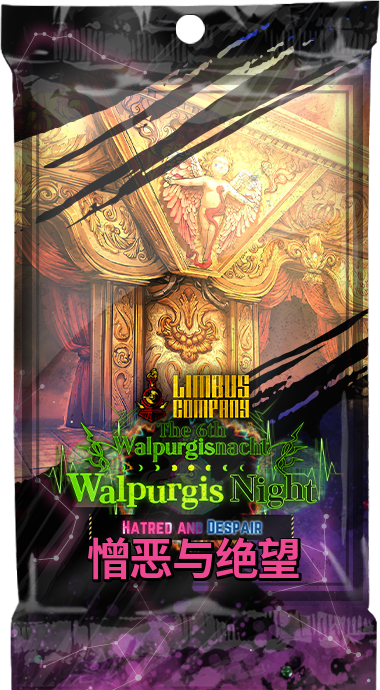
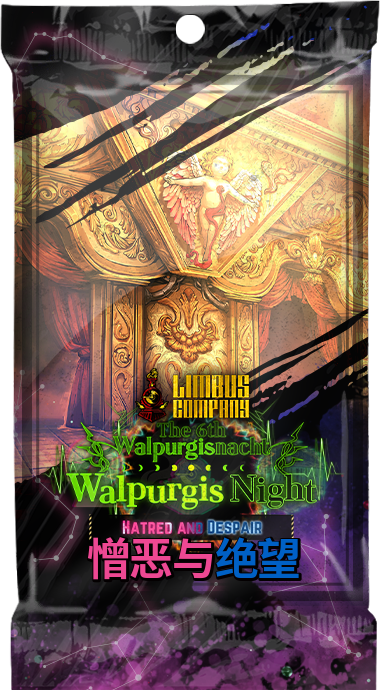
主题包: 按游戏官方卡包名校正 OCR 关键词
以游戏 EN_MirrorDungeonTheme-1.json 的 117 条官方卡包名逐项核验，修正
英文关键词的错抢与失配：

- und -> nagel：Nagel and Hammer 里的 and 是 a-n-d，不含 und，钉与锤
  从未命中过自己，而 Thunder / Unbound 反被抢走
- curshed -> crushed、extrenal -> external：字母顺序写反，当碎之物与
  破坏性外力在英文界面识别不到
- memory -> mnestic：官方名是 Mnestic Experience，封面文件名不可信
- wrath -> repressed：修好 und 后 Unbound Wrath 会转由 wrath 抢先
- glutton -> devoured、gloom -> degraded、sloth -> treadwheel：基础名单
  先于困难名单合并，短片段会抢走困难侧的同名系列卡包

同时统一 penetra 与穿刺者的默认权重为 0，修正 Hatred and Despair 封面
标题的双色渲染。

Claude-Session: https://claude.ai/code/session_01NyeZWuDQnrYkFRXJkAY4ns

Changed region(s): [[0.55, 0.7609, 0.7816, 0.8522]]

diff --git a/app/theme_pack_setting_interface.py b/app/theme_pack_setting_interface.py
@@ -47,7 +47,7 @@ from utils.image_utils import ImageUtils
 THEME_PACK_NAME_MAP = {
     "forgot": "遗忘",
     "gambl": "赌徒",
-    "und": "钉与锤",
+    "nagel": "钉与锤",
     "faith": "信仰",
     "unconf": "无作为",
     "workshop": "工坊",
@@ -67,14 +67,14 @@ THEME_PACK_NAME_MAP = {
     "addict": "沉迷的",
     "seduct": "情感困惑",
     "dolen": "情感懒",
-    "glutton": "吞噬的",
+    "devoured": "吞噬的",
     "cravi": "情感饥渴",
-    "gloom": "落的忧",
+    "degraded": "落的忧",
     "subserv": "情感屈从",
     "nsignif": "寒微",
     "judgment": "情感评判",
     "outcast": "无归属",
-    "curshed": "当碎",
+    "crushed": "当碎",
     "automated": "自动",
     "spring": "琢春",
     "unloving": "无慈悲",
@@ -85,8 +85,8 @@ THEME_PACK_NAME_MAP = {
     "warp": "谋杀",
     "violet": "紫罗兰",
     "dicers": "斩切",
-    "wrath": "压抑的",
-    "sloth": "空转",
+    "repressed": "压抑的",
+    "treadwheel": "空转",
     "flood": "沉溺者",
     "vain": "虚张声势",
     "check": "体检",
@@ -96,14 +96,14 @@ THEME_PACK_NAME_MAP = {
     "dusk": "黄昏",
     "thread": "绞丝",
     "compassion": "巡礼",
-    "memory": "经验",
+    "mnestic": "经验",
     "unknown": "未知",
 }
 
 # 英文key到中文名称的映射表（困难模式）
 THEME_PACK_HARD_NAME_MAP = {
     "seismic": "地震",
-    "extrenal": "破坏性",
+    "external": "破坏性",
     "thunder": "电闪雷鸣",
     "sanguine": "渗出的",
     "dizzying": "缭乱的",
@@ -162,7 +162,7 @@ THEME_PACK_IMAGE_MAP = {
     # 普通模式主题包
     "forgot": "The Forgotten.png",
     "gambl": "Flat-broke Gamblers.png",
-    "und": "Nagel and Hammer.png",
+    "nagel": "Nagel and Hammer.png",
     "faith": "Faith & Erosion.png",
     "unconf": "The Unconfronting.png",
     "workshop": "Nest, Workshop, and Technology.png",
@@ -182,14 +182,14 @@ THEME_PACK_IMAGE_MAP = {
     "addict": "Addicting Lust.png",
     "seduct": "Emotional Seduction.png",
     "dolen": "Emotional Indolence.png",
-    "glutton": "Devoured Gluttony.png",
+    "devoured": "Devoured Gluttony.png",
     "cravi": "Emotional Craving.png",
-    "gloom": "Degraded Gloom.png",
+    "degraded": "Degraded Gloom.png",
     "subserv": "Emotional Subservience.png",
     "nsignif": "Insignificant Envy.png",
     "judgment": "Emotional Judgment.png",
     "outcast": "The Outcast.png",
-    "curshed": "To be Crushed.png",
+    "crushed": "To be Crushed.png",
     "automated": "Automated Factory.png",
     "spring": "Spring Cultivation.png",
     "unloving": "The Unloving.png",
@@ -200,8 +200,8 @@ THEME_PACK_IMAGE_MAP = {
     "warp": "Marder on.the WARP Express BokGak.png",
     "violet": "The Moon of Violet.png",
     "dicers": "Slicers & Dicers.png",
-    "wrath": "Repressed Wrath.png",
-    "sloth": "Treadwheel Sloth.png",
+    "repressed": "Repressed Wrath.png",
+    "treadwheel": "Treadwheel Sloth.png",
     "flood": "Emotional Flood.png",
     "vain": "Vain Pride.png",
     # 原版与复刻共用一个权重，设置页只展示复刻封面。
@@ -212,14 +212,14 @@ THEME_PACK_IMAGE_MAP = {
     "dusk": "The Dusk of Amber.png",
     "thread": "Twining Threads.png",
     "compassion": "Pilgrimage of Compassion.png",
-    "memory": "Experience Memory.png",
+    "mnestic": "Experience Memory.png",
     "unknown": "Unknown.png",
 }
 
 # 主题包 key 到图片文件名的映射表（困难模式）
 THEME_PACK_HARD_IMAGE_MAP = {
     "seismic": "Abnormal Seismi Zone.png",
-    "extrenal": "Crushing External Force.png",
+    "external": "Crushing External Force.png",
     "thunder": "Thunder and Lightning.png",
     "sanguine": "Trickled Sanguin Blood.png",
     "dizzying": "Dizzying Waves.png",

diff --git a/tests/test_theme_pack_catalog.py b/tests/test_theme_pack_catalog.py
@@ -41,7 +41,7 @@ class ThemePackCatalogTests(unittest.TestCase):
         expected_base = {
             "forgot",
             "gambl",
-            "und",
+            "nagel",
             "faith",
             "unconf",
             "workshop",
@@ -61,14 +61,14 @@ class ThemePackCatalogTests(unittest.TestCase):
             "addict",
             "seduct",
             "dolen",
-            "glutton",
+            "devoured",
             "cravi",
-            "gloom",
+            "degraded",
             "subserv",
             "nsignif",
             "judgment",
             "outcast",
-            "curshed",
+            "crushed",
             "automated",
             "spring",
             "unloving",
@@ -79,8 +79,8 @@ class ThemePackCatalogTests(unittest.TestCase):
             "warp",
             "violet",
             "dicers",
-            "wrath",
-            "sloth",
+            "repressed",
+            "treadwheel",
             "flood",
             "vain",
             "check",
@@ -90,7 +90,7 @@ class ThemePackCatalogTests(unittest.TestCase):
             "dusk",
             "thread",
             "compassion",
-            "memory",
+            "mnestic",
             "unknown",
         }
         expected_hard_increment = {
@@ -98,7 +98,7 @@ class ThemePackCatalogTests(unittest.TestCase):
             "b·e",
             "line",
             "seismic",
-            "extrenal",
+            "external",
             "thunder",
             "sanguine",
             "dizzying",
@@ -204,7 +204,7 @@ class ThemePackCatalogTests(unittest.TestCase):
             self.assertEqual(self._match(name, weights), key, name)
 
     def test_english_names_resolve_to_the_expected_weight_key(self):
-        """复刻包与原版共用一个短 key，困难本合并名单后也不会串权重。"""
+        """卡包名取自游戏 EN_MirrorDungeonTheme-1.json，短 key 不能抢走同名系列的另一个卡包。"""
         weights = _specific_theme_keywords_first(
             {
                 **{str(key): 0 for key in self.default["theme_pack_list"]},
@@ -212,6 +212,7 @@ class ThemePackCatalogTests(unittest.TestCase):
             }
         )
         expected = {
+            # 复刻包与原版共用一个短 key。
             "Miracle in District 20": "miracle",
             "Miracle in District 20 BokGak": "miracle",
             "Timekilling Time": "time",
@@ -220,9 +221,21 @@ class ThemePackCatalogTests(unittest.TestCase):
             "Murder on the WARP Express BokGak": "warp",
             "Yield My Flesh to Claim Their Bones": "bones",
             "Yield My Flesh to Claim Their Bones BokGak": "bones",
-            "Repressed Wrath": "wrath",
+            # 基础列表与 HARD 增量列表里的同名系列，各自归位。
+            "Nagel and Hammer": "nagel",
+            "Thunder and Lightning": "thunder",
+            "To be Crushed": "crushed",
+            "Crushers & Breakers": "crushers",
+            "Repressed Wrath": "repressed",
             "Unbound Wrath": "unbound",
-            "Experience Memory": "memory",
+            "Treadwheel Sloth": "treadwheel",
+            "Inert Sloth": "inert",
+            "Devoured Gluttony": "devoured",
+            "Excessive Gluttony": "excessive",
+            "Degraded Gloom": "degraded",
+            "Sunk Gloom": "sunk",
+            "Mnestic Experience": "mnestic",
+            "Crushing External Force": "external",
         }
         for name, key in expected.items():
             self.assertEqual(self._match(name, weights), key, name)
